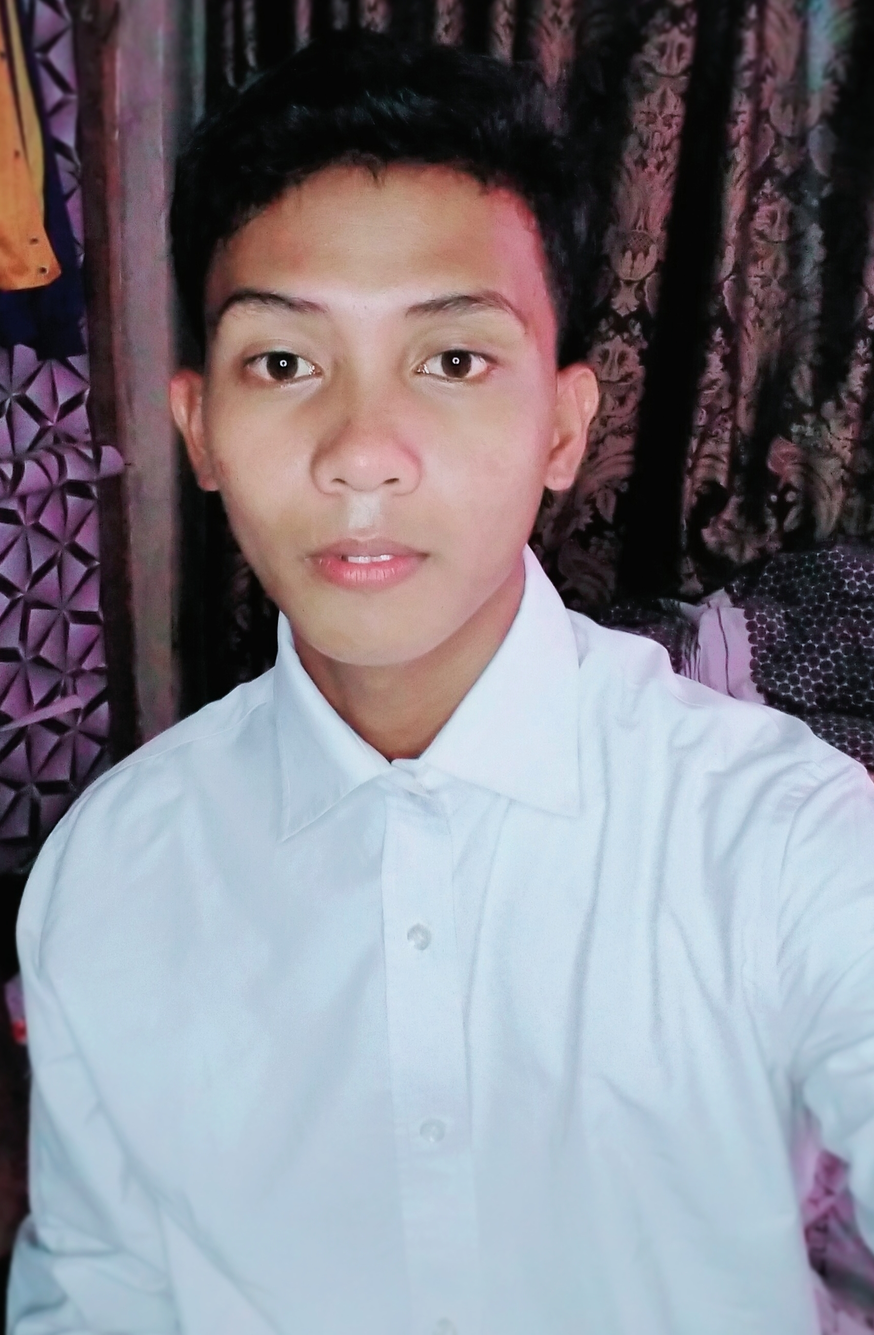
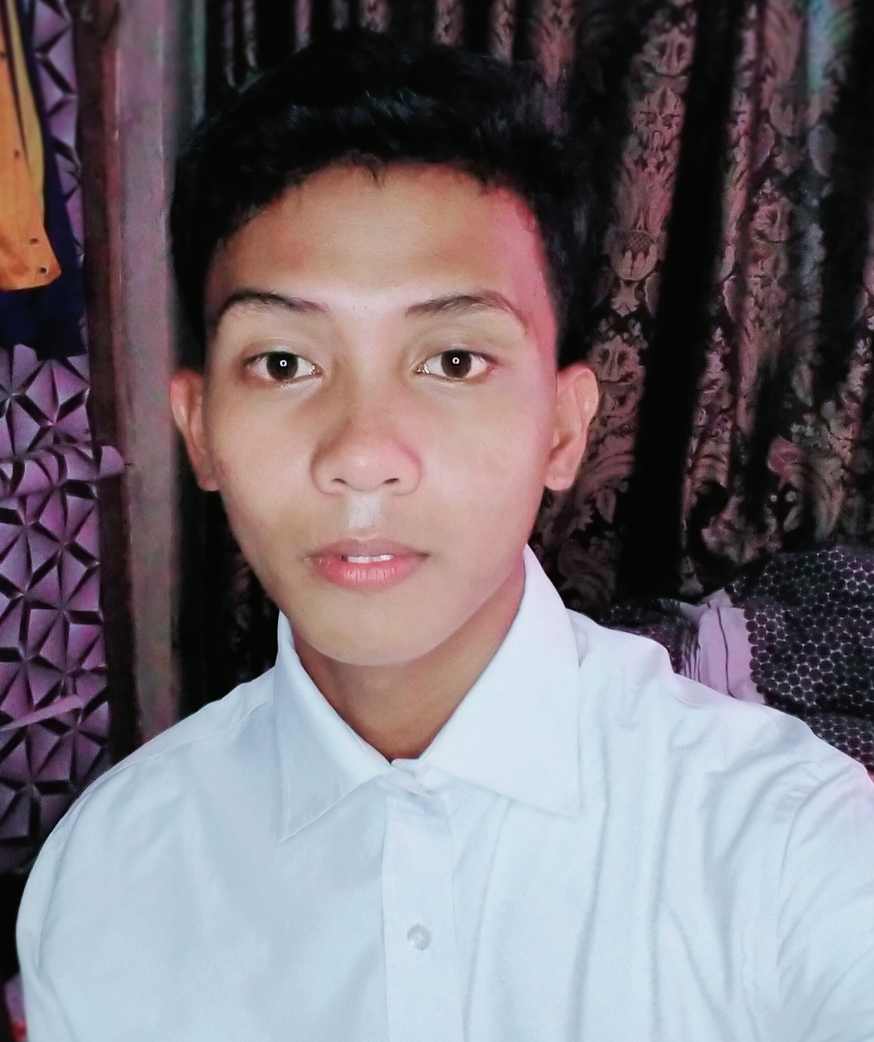
Ready for deployment

diff --git a/tailwind.config.js b/tailwind.config.js
@@ -1,10 +1,43 @@
 /** @type {import('tailwindcss').Config} */
-module.exports = {
-  content: [
-    "./src/**/*.{js,jsx,ts,tsx}",
-  ],
+export default {
+  darkMode: "class",
+  module: "jit",
+  content: ["./index.html", "./src/**/*.{ts,tsx}"],
   theme: {
-    extend: {},
+    fontFamily: {
+      sans: "Inter, sans-serif",
+    },
+    extend: {
+      colors: {
+        "dark-hover-bg": "#131313",
+        "dark-border": "#444444",
+        "dark-text": "#c5c4c4",
+        "dark-icon": "#8c8c8c",
+        "badge": "#f2ed98",
+      },
+      backgroundImage: {
+        "dotted-light": "radial-gradient(#e0dfd3 8%, transparent 8%)",
+        "dotted-dark": "radial-gradient(#262626 8%, transparent 8%)",
+      },
+      backgroundSize: {
+        vmin: "5vmin 5vmin",
+      },
+      animation: {
+        wave: "wave 2.5s infinite",
+      },
+      keyframes: {
+        wave: {
+          "0%": { transform: "rotate(0.0deg)" },
+          "10%": { transform: "rotate(14.0deg)" },
+          "20%": { transform: "rotate(-8.0deg)" },
+          "30%": { transform: "rotate(14.0deg)" },
+          "40%": { transform: "rotate(-4.0deg)" },
+          "50%": { transform: "rotate(10.0deg)" },
+          "60%": { transform: "rotate(0.0deg)" },
+          "100%": { transform: "rotate(0.0deg)" },
+        },
+      },
+    },
   },
   plugins: [],
-}
+};

diff --git a/src/pages/Home/index.tsx b/src/pages/Home/index.tsx
@@ -11,7 +11,7 @@ import {
 import { FiArrowDown, FiFileText } from "react-icons/fi";
 import resume from "../../assets/resume.pdf";
 import portrait from "../../assets/rjhel.jpg";
-import { Container, Portrait, ScrollArrow, WavingHand } from "./styles";
+import { Container, Portrait, ScrollArrow, WavingHand, Image } from "./styles";
 import { RoughNotationGroup } from "react-rough-notation";
 import { useIsInViewport } from "../../hooks/useIsInViewport";
 import { useRef } from "react";
@@ -29,12 +29,12 @@ const Home = () => {
       <RoughNotationGroup show={isInViewport}>
         <FlexRow>
           <Portrait>
-            <img src={portrait} alt="portrait" />
+            <Image src={portrait} alt="portrait" />
           </Portrait>
           <FlexCol className="md:justify-center">
             <H1>
               <Highlight color="rgb(125, 216, 236)">
-                R-jel Tandugon <WavingHand>👋</WavingHand>
+                R-jhel Tandugon <WavingHand>👋</WavingHand>
               </Highlight>
             </H1>
             <H2>

diff --git a/src/index.css b/src/index.css
@@ -1,17 +1,7 @@
+@import url("https://fonts.googleapis.com/css2?family=Inter:wght@300;400;500;600;700;800;900&display=swap");
+
 @tailwind base;
 @tailwind components;
 @tailwind utilities;
 
-body {
-  margin: 0;
-  font-family: -apple-system, BlinkMacSystemFont, 'Segoe UI', 'Roboto', 'Oxygen',
-    'Ubuntu', 'Cantarell', 'Fira Sans', 'Droid Sans', 'Helvetica Neue',
-    sans-serif;
-  -webkit-font-smoothing: antialiased;
-  -moz-osx-font-smoothing: grayscale;
-}
 
-code {
-  font-family: source-code-pro, Menlo, Monaco, Consolas, 'Courier New',
-    monospace;
-}

diff --git a/src/pages/Home/styles.tsx b/src/pages/Home/styles.tsx
@@ -6,7 +6,11 @@ export const Container = tw.div`
 
 export const Portrait = tw.div`
   flex gap-3 w-32 h-32 relative rounded-full select-none flex-shrink-0 mb-3
-  md:w-52 md:h-52 md:mr-8 
+  md:w-52 md:h-52 md:mr-8
+`;
+
+export const Image = tw.img`
+  w-full h-full rounded-full object-cover
 `;
 
 export const WavingHand = tw.span`
